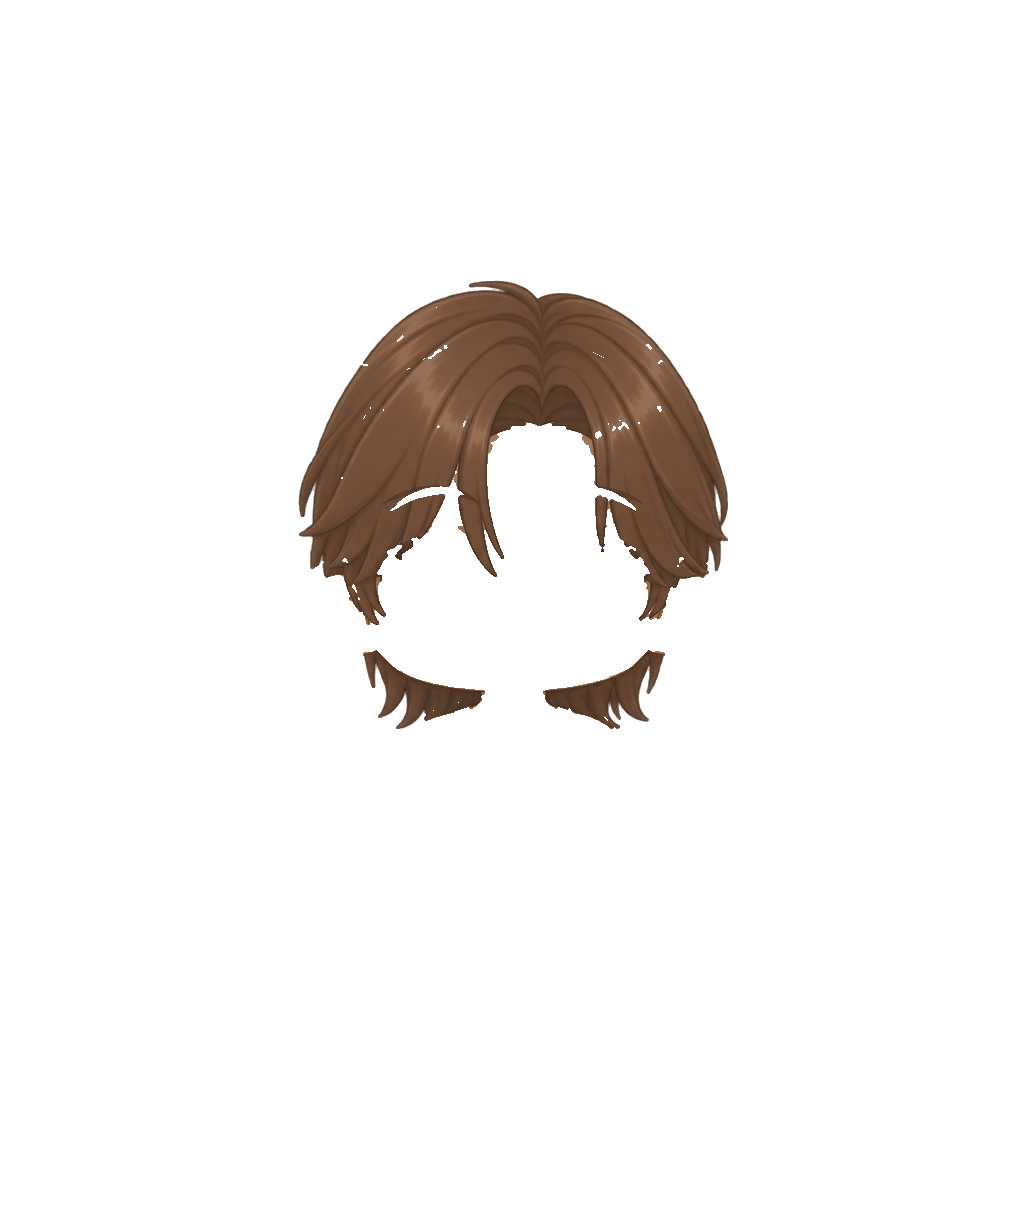
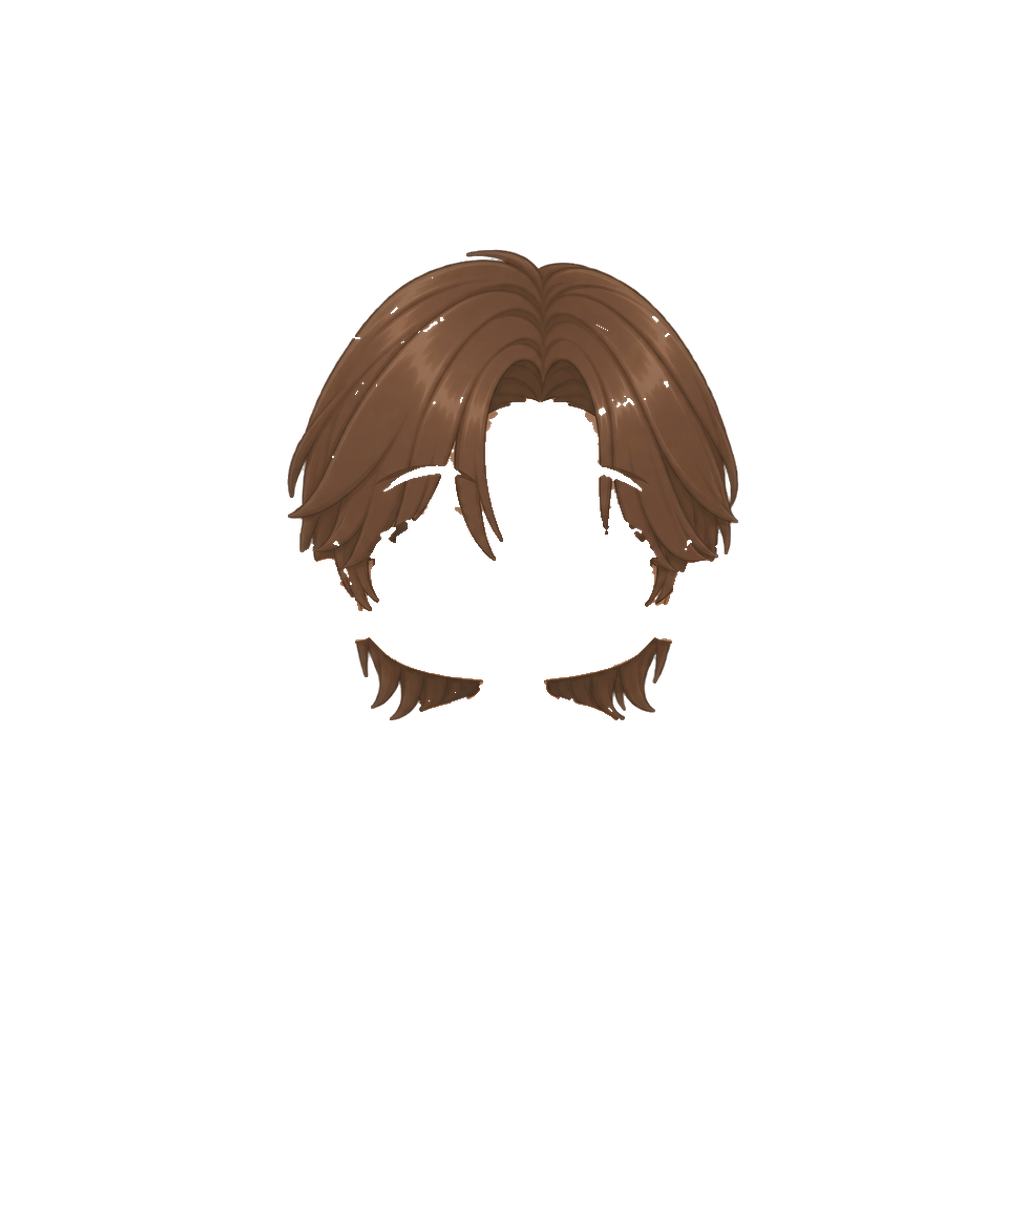
fix(iq2): 男性ロング・スパイキーの生え際位置を調整
Claude-Session: https://claude.ai/code/session_01NXuBE3U4UAebXMPco3J5UQ

Changed region(s): [[0.2812, 0.1863, 0.7188, 0.5899]]

diff --git a/app/lib/avatar/catalog.ts b/app/lib/avatar/catalog.ts
@@ -114,7 +114,7 @@ export const OUTFIT_READY = new Set(["knight_default__f","mage_default__f","arch
 export const OUTFIT_HAS_BACK = new Set<string>([]);
 
 /** 画像差し替え時にブラウザキャッシュを無効化するためのバージョン */
-export const ASSET_V = "14";
+export const ASSET_V = "15";
 
 export function resolveLayers(c: AvatarConfig, job: JobKey): { layer: Layer; src: string | null; missing: boolean }[] {
     const g = GEAR[job];

diff --git a/tools/avatar_hair_adjust.py b/tools/avatar_hair_adjust.py
@@ -1,0 +1,11 @@
+#!/usr/bin/env python3
+"""髪レイヤーを顔中心基準で拡縮＋上下移動。 例: m_long 1.04 -14"""
+import sys, glob
+from PIL import Image
+hid=sys.argv[1]; s=float(sys.argv[2]); dy=int(sys.argv[3]) if len(sys.argv)>3 else 0
+CX,CY=512,385+200
+for f in glob.glob(f"public/avatar/hair_*/{hid}__*.png"):
+    im=Image.open(f).convert("RGBA"); W,H=im.size
+    sm=im.resize((int(round(W*s)),int(round(H*s))),Image.LANCZOS)
+    out=Image.new("RGBA",(W,H),(0,0,0,0)); out.alpha_composite(sm,(int(round(CX-CX*s)),int(round(CY-CY*s))+dy)); out.save(f)
+print("ok",hid,s,dy)
